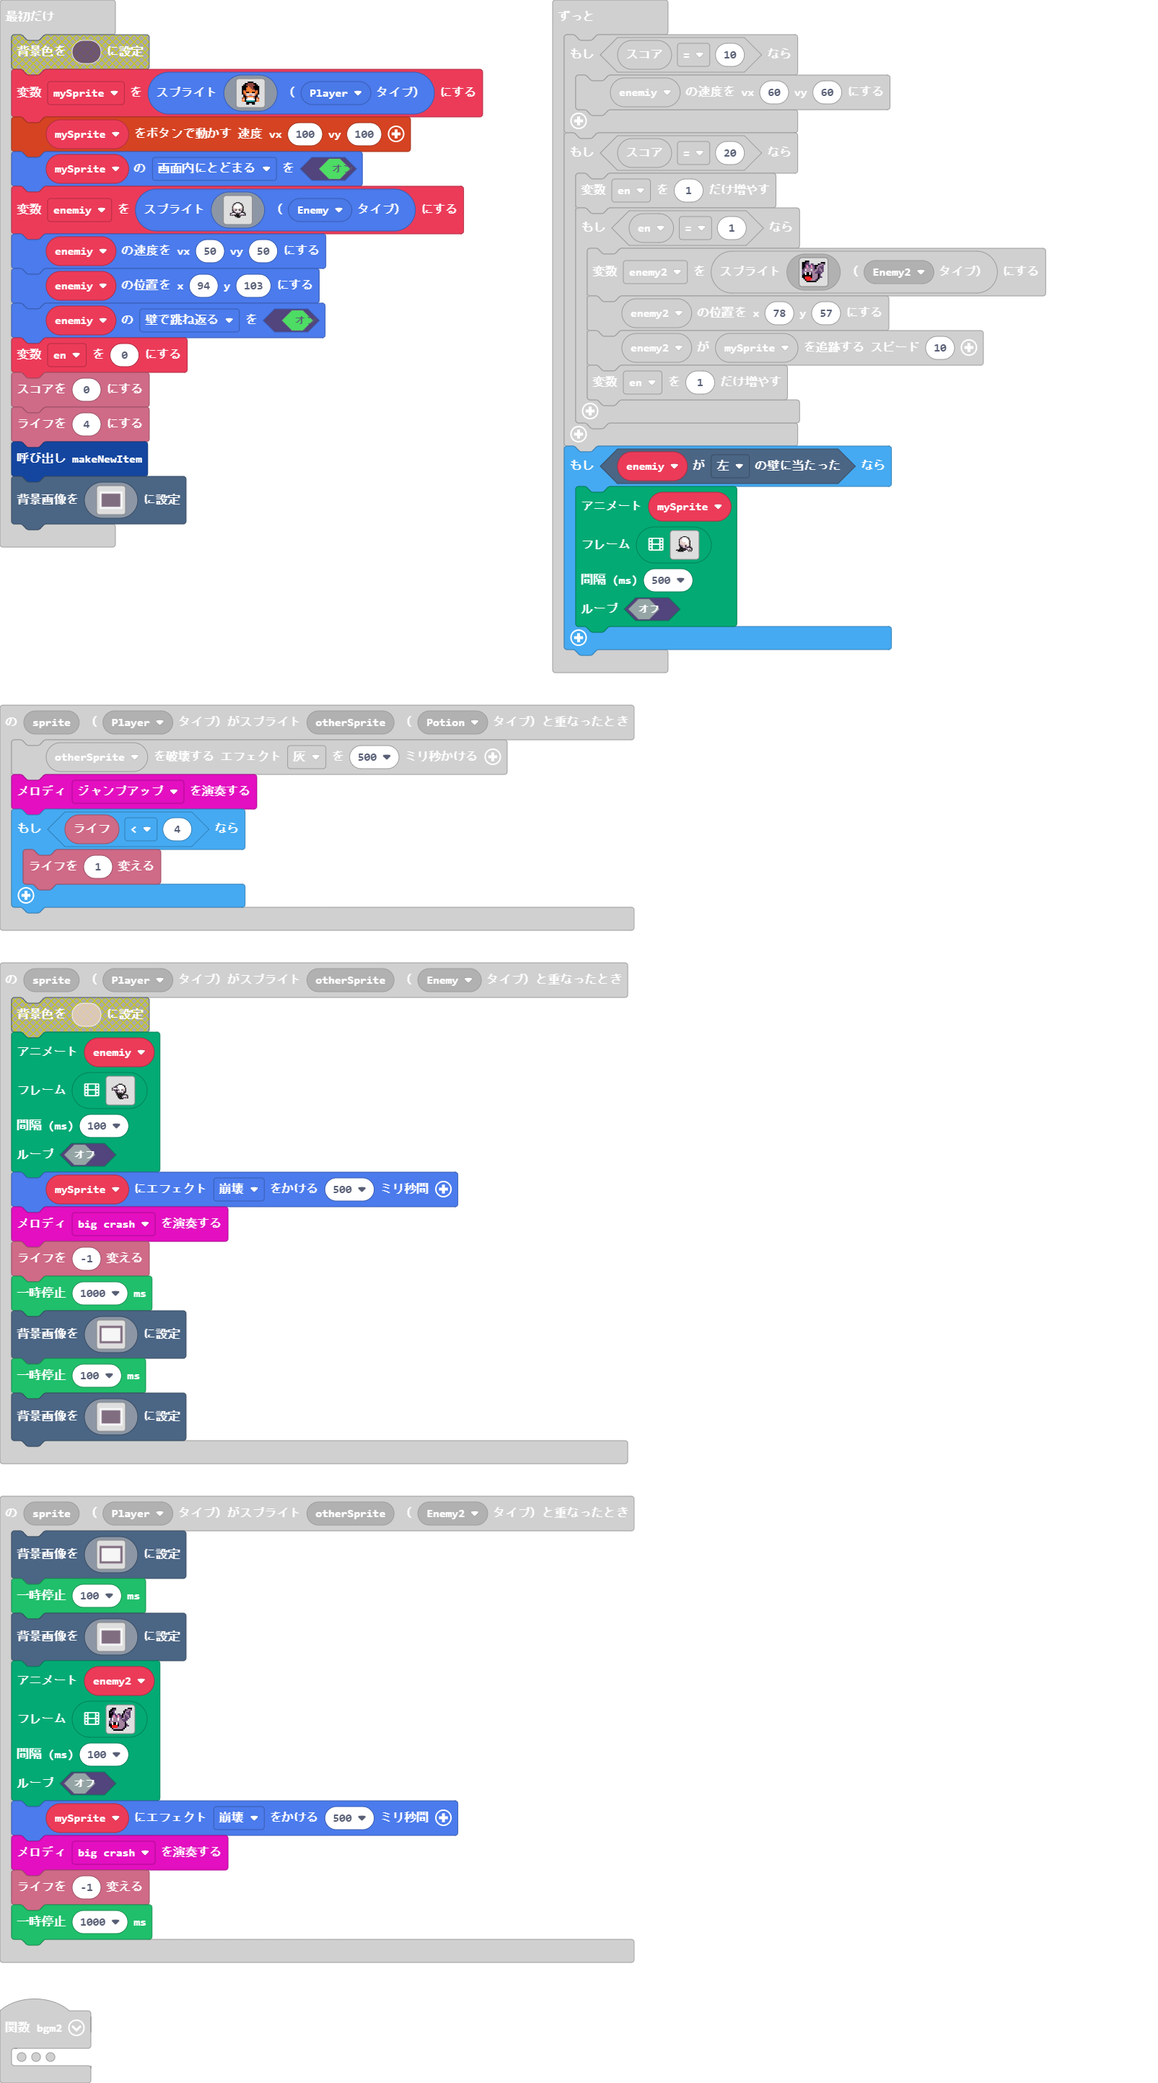
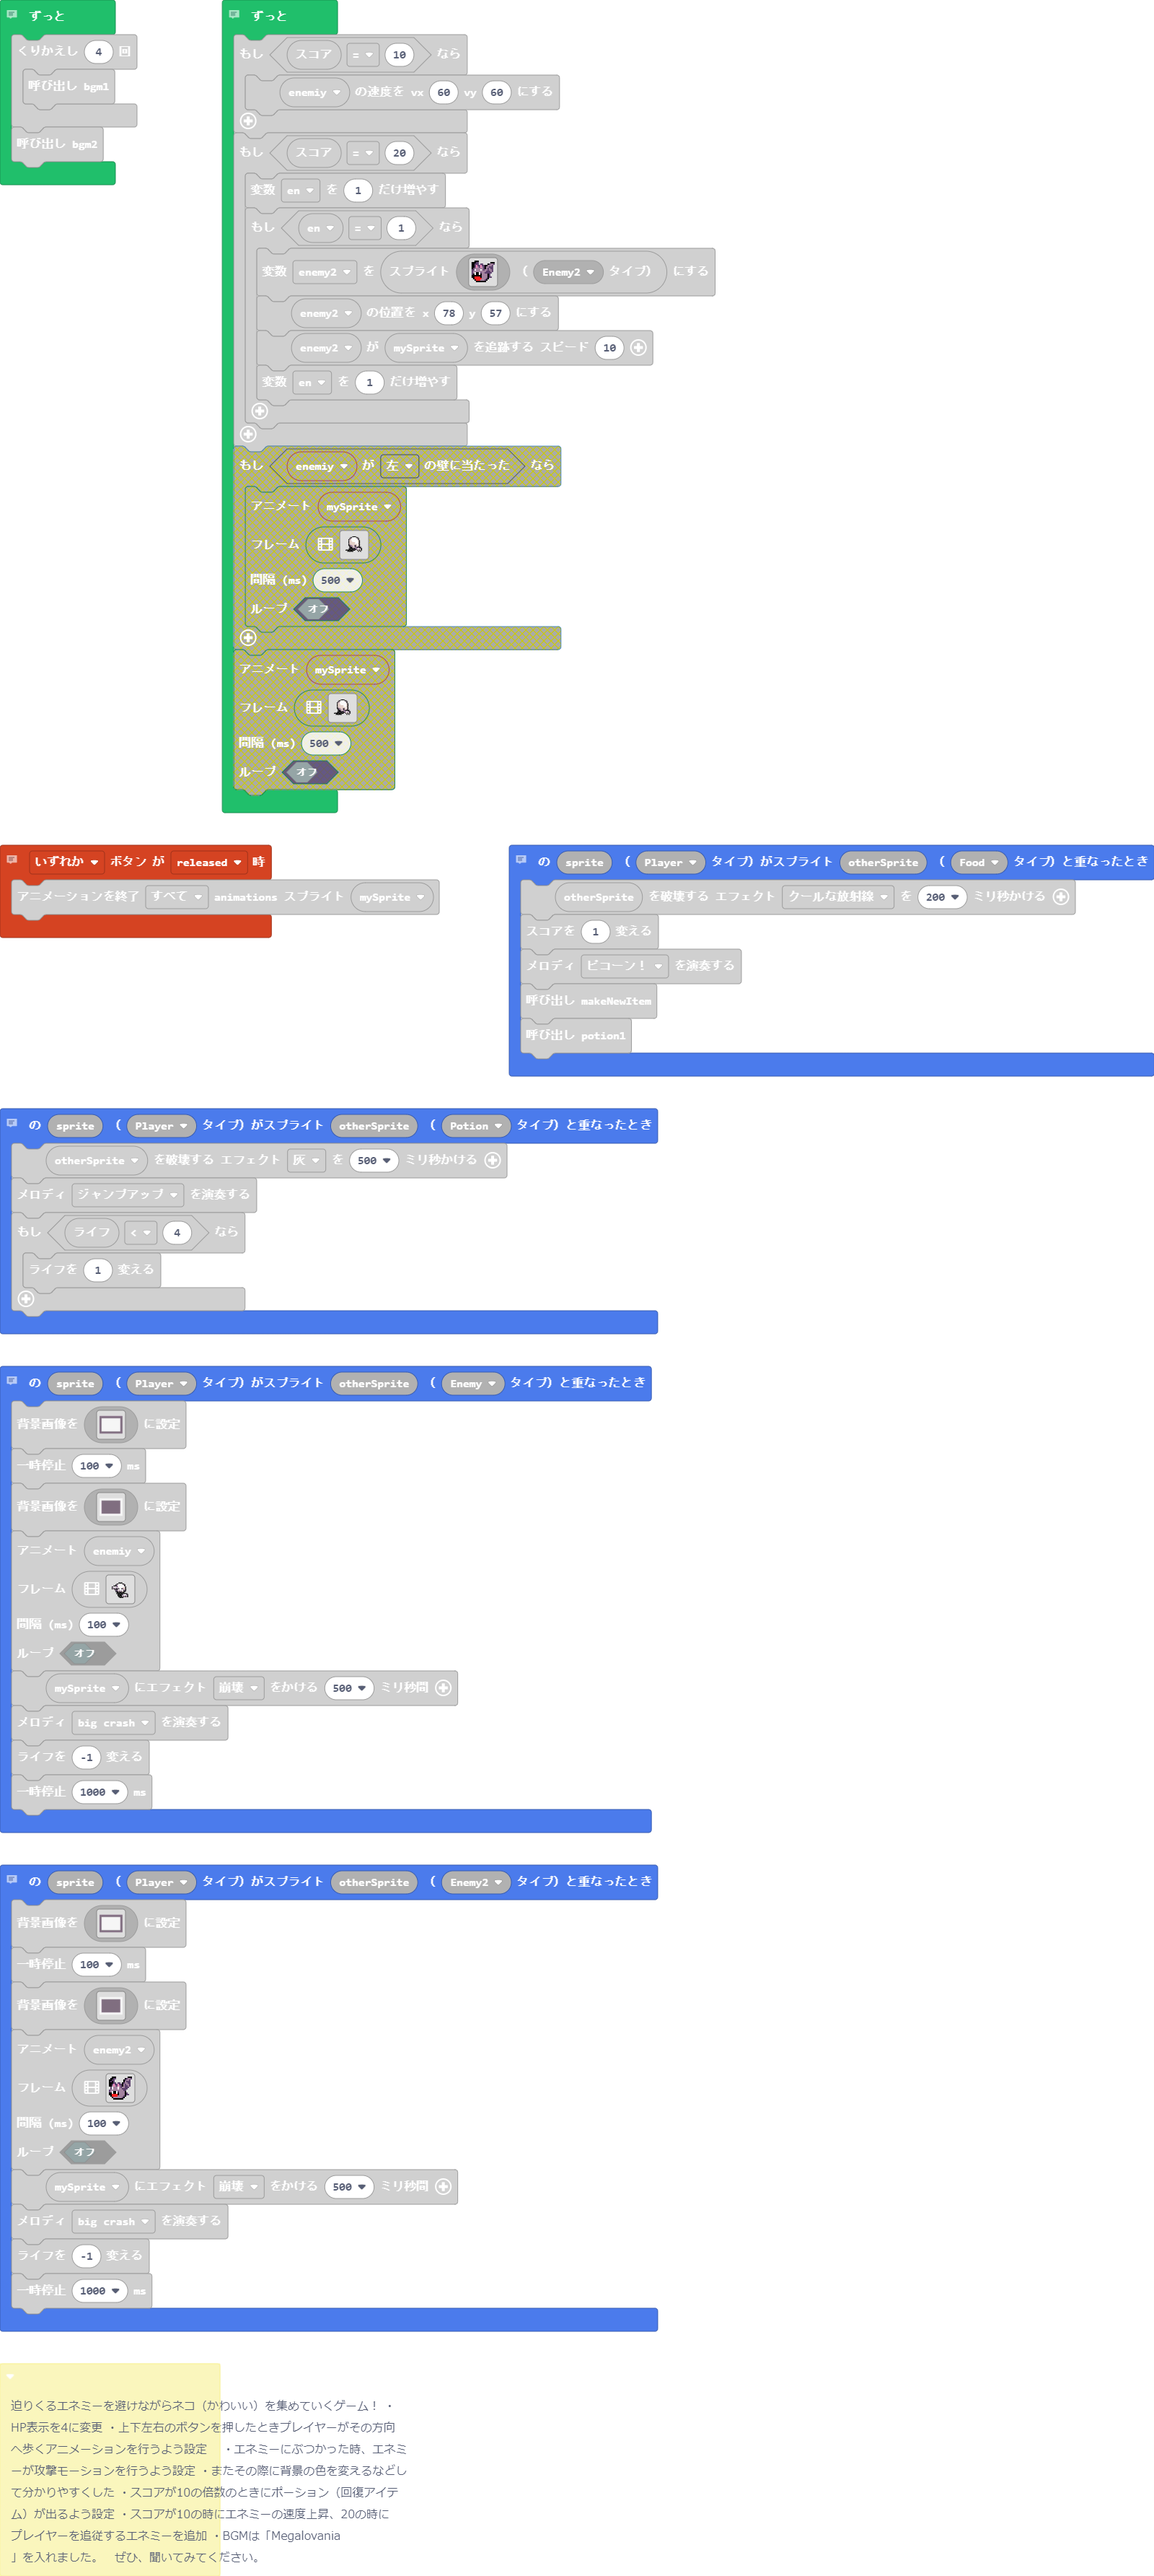
更新 main.blocks, main.ts

diff --git a/main.ts b/main.ts
@@ -2,6 +2,23 @@ namespace SpriteKind {
     export const Potion = SpriteKind.create()
     export const Enemy2 = SpriteKind.create()
 }
+/**
+ * 迫りくるエネミーを避けながらネコ（かわいい）を集めていくゲーム！
+ * 
+ * ・HP表示を4に変更
+ * 
+ * ・上下左右のボタンを押したときプレイヤーがその方向へ歩くアニメーションを行うよう設定　
+ * 
+ * ・エネミーにぶつかった時、エネミーが攻撃モーションを行うよう設定
+ * 
+ * ・またその際に背景の色を変えるなどして分かりやすくした
+ * 
+ * ・スコアが10の倍数のときにポーション（回復アイテム）が出るよう設定
+ * 
+ * ・スコアが10の時にエネミーの速度上昇、20の時にプレイヤーを追従するエネミーを追加
+ * 
+ * ・BGMは「Megalovania」を入れました。　ぜひ、聞いてみてください。
+ */
 function makeNewItem () {
     item = sprites.create(img`
         . . . . . . . . . . . . . . 
@@ -260,6 +277,7 @@ controller.down.onEvent(ControllerButtonEvent.Pressed, function () {
     true
     )
 })
+// ボタンを離した時にアニメ―ションを終了させる
 controller.anyButton.onEvent(ControllerButtonEvent.Released, function () {
     animation.stopAnimation(animation.AnimationTypes.All, mySprite)
 })
@@ -322,6 +340,7 @@ controller.left.onEvent(ControllerButtonEvent.Pressed, function () {
     true
     )
 })
+// エネミーに当たった時の判定
 sprites.onOverlap(SpriteKind.Player, SpriteKind.Enemy2, function (sprite, otherSprite) {
     scene.setBackgroundImage(img`
         cccccccccccccccccccccccccccccccccccccccccccccccccccccccccccccccccccccccccccccccccccccccccccccccccccccccccccccccccccccccccccccccccccccccccccccccccccccccccccccccc
@@ -703,6 +722,7 @@ function bgm1 () {
     music.playTone(349, music.beat(BeatFraction.Quarter))
     music.playTone(392, music.beat(BeatFraction.Quarter))
 }
+// フード（猫）に当たった時の判定
 sprites.onOverlap(SpriteKind.Player, SpriteKind.Food, function (sprite, otherSprite) {
     otherSprite.destroy(effects.coolRadial, 200)
     info.changeScoreBy(1)
@@ -769,6 +789,7 @@ controller.up.onEvent(ControllerButtonEvent.Pressed, function () {
     true
     )
 })
+// ポーションに当たった時の判定
 sprites.onOverlap(SpriteKind.Player, SpriteKind.Potion, function (sprite, otherSprite) {
     otherSprite.destroy(effects.ashes, 500)
     music.jumpUp.play()
@@ -776,6 +797,7 @@ sprites.onOverlap(SpriteKind.Player, SpriteKind.Potion, function (sprite, otherS
         info.changeLifeBy(1)
     }
 })
+// エネミーに当たったときの判定
 sprites.onOverlap(SpriteKind.Player, SpriteKind.Enemy, function (sprite, otherSprite) {
     scene.setBackgroundImage(img`
         cccccccccccccccccccccccccccccccccccccccccccccccccccccccccccccccccccccccccccccccccccccccccccccccccccccccccccccccccccccccccccccccccccccccccccccccccccccccccccccccc
@@ -1313,12 +1335,14 @@ let en = 0
 info.setScore(0)
 info.setLife(4)
 makeNewItem()
+// ・BGMは「Megalovania」を入れました。熱く最高の曲です。
 forever(function () {
     for (let index = 0; index < 4; index++) {
         bgm1()
     }
     bgm2()
 })
+// スコアによってエネミーの速度変更、または追加
 forever(function () {
     if (info.score() == 10) {
         enemiy.setVelocity(60, 60)
@@ -1348,63 +1372,5 @@ forever(function () {
             enemy2.follow(mySprite, 10)
             en += 1
         }
-    }
-    if (enemiy.isHittingTile(CollisionDirection.Left)) {
-        animation.runImageAnimation(
-        mySprite,
-        [img`
-            ........................
-            ........................
-            ........................
-            ..........ffff..........
-            ........ff1111ff........
-            .......fb111111bf.......
-            ......fbd1111111f.......
-            ......fdd1111111df......
-            ......fddd111111df......
-            ......fdddddd111df......
-            ......fdddddd111df......
-            ......fbddddddd1df......
-            ......ffbbddbfd1df......
-            .......fcbbdcfddbf......
-            .......fffbddccffff.....
-            .......ffffcfbbb1bcf....
-            ......ffffffffcd1b1f....
-            ...ffffffffff..fdfdf....
-            .....ffffff.....f.f.....
-            ........................
-            ........................
-            ........................
-            ........................
-            ........................
-            `,img`
-            ........................
-            ........................
-            ........................
-            ........................
-            .........fffff..........
-            .......ffb1111ff........
-            ......fb1111111bf.......
-            ......f111111111f.......
-            .....ffff1111111df......
-            ....fb111c1dd111df......
-            ....ffb1b1fdcf11bf......
-            .....ffbfbfb11111f......
-            ......ffffcfdb1b1f......
-            .......fcccfcfbfbf......
-            ........ffffffffff......
-            .........ffffff.........
-            .........ffffff.........
-            .....f..fffffff.........
-            .....fffffffff..........
-            ......fffffff...........
-            ........................
-            ........................
-            ........................
-            ........................
-            `],
-        500,
-        false
-        )
     }
 })
